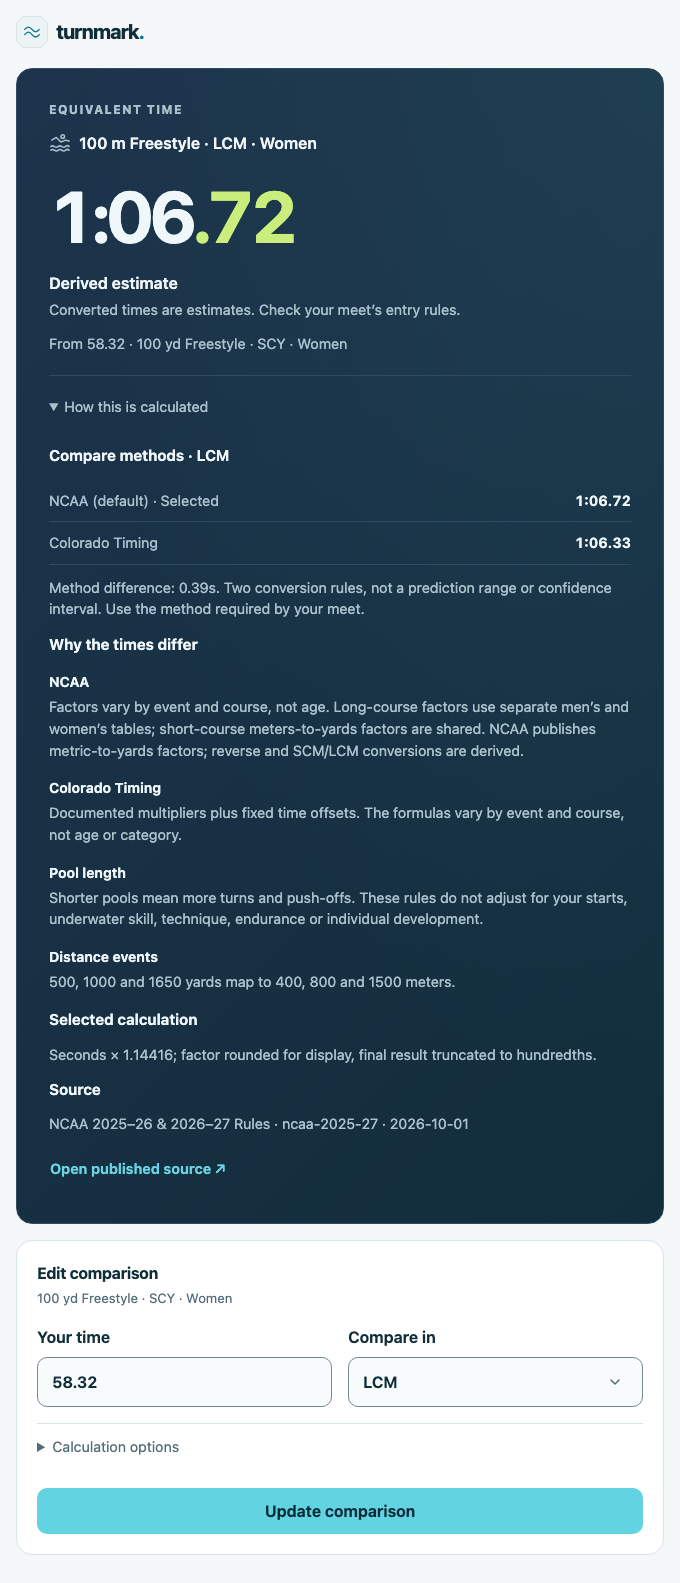
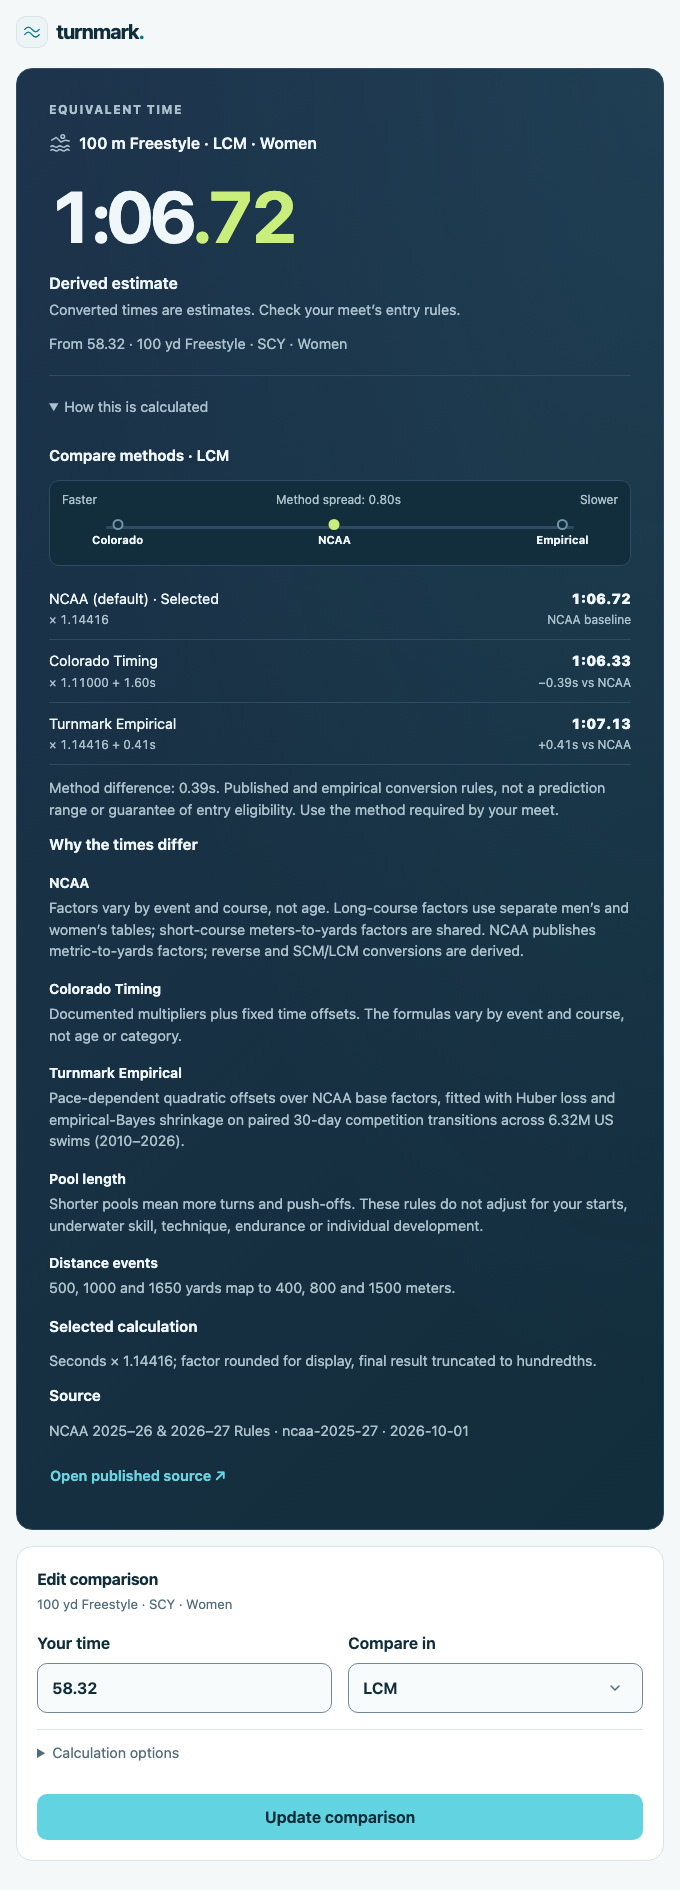
Refresh method comparison screenshots and remove unused captures (#44)
docs: refresh method comparison screenshots and remove unused captures

diff --git a/README.md b/README.md
@@ -9,7 +9,7 @@ Your offline swim companion: convert across pool courses, compare your times wit
 Available in the web app:
 
 - Live SCY / SCM / LCM comparisons with event-specific distance mapping
-- NCAA conversions by default, with a quiet documented Colorado Timing alternative and method comparison
+- NCAA conversions by default, with Colorado Timing and Turnmark Empirical pace-curve alternatives and method comparison
 - 2,892 published USA Swimming 2024–2028 motivational times, revised October 10, 2025
 - Original-course standards ladder with the next level and time gap
 - World Aquatics points from 70 published 2026 metric base times
@@ -35,7 +35,7 @@ and its NCAA course equivalents. Published standards and points follow in their 
 ![Turnmark web converter with editable inputs and SCY SCM LCM equivalents](docs/screenshots/web-converter-comparison-dark.png)
 
 [Light appearance](docs/screenshots/web-converter-comparison-light.png) ·
-[Colorado Timing example](docs/screenshots/web-converter-method-dark.png) ·
+[Method comparison & Turnmark Empirical example](docs/screenshots/web-converter-method-dark.png) ·
 [Layout review and mobile flow](docs/CONVERTER_LAYOUT_EXPLORATION.md)
 
 Fresh native installs start with a blank time and direct entry.
